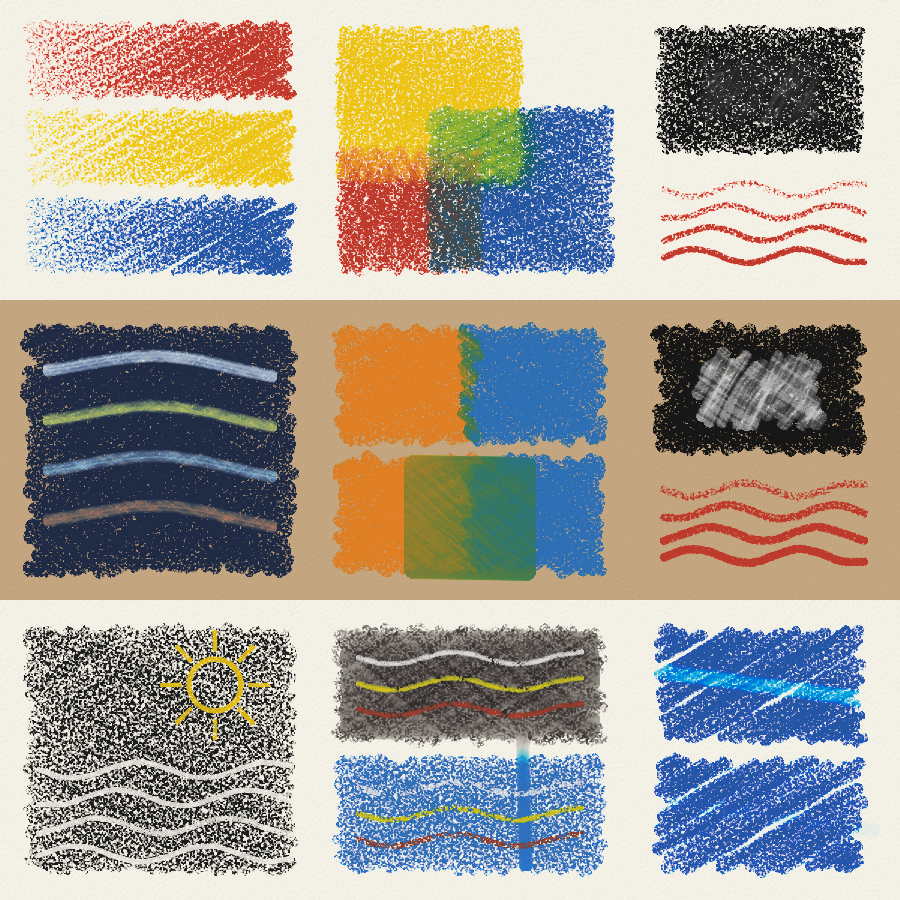
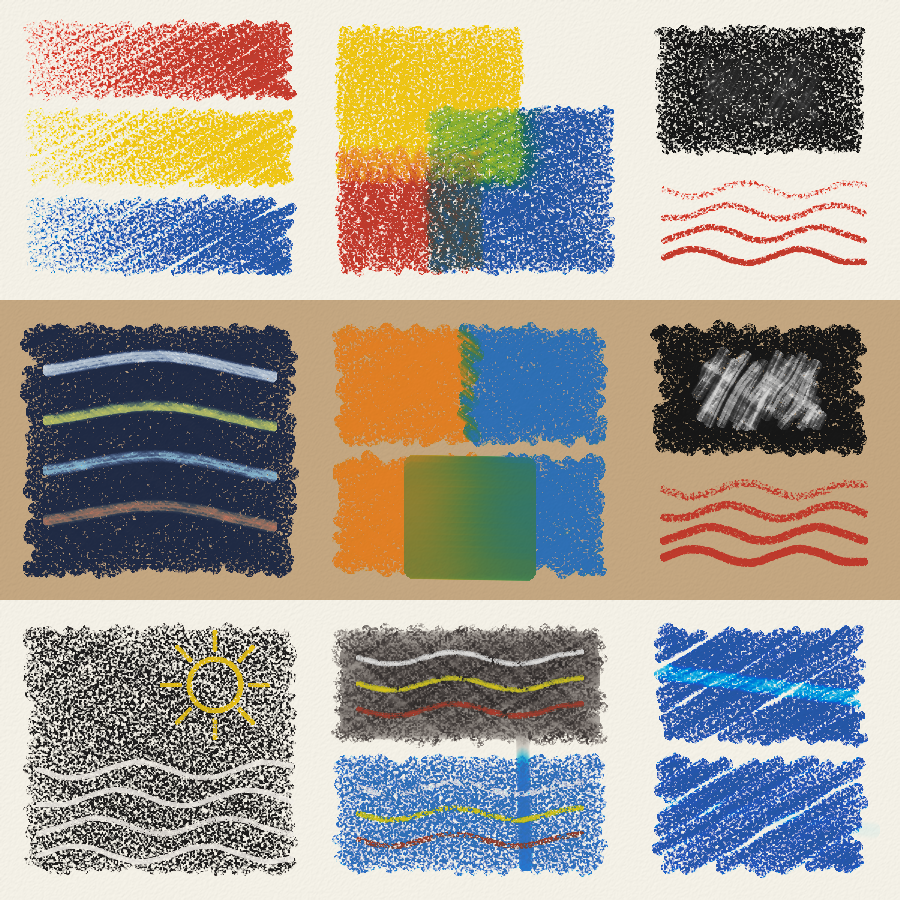
An oil pastel leaves paste and no film, and a finger blends it again (fusain-r56)
With a film kept apart from what it lies on, the film an oil pastel laid
on its own paste (two fifths of what met paste) had its own colour and
no finger moved it: a rubbed join of two oil pastels kept the hatching
of every stroke and a sharp seam. What a greasy medium lays on what lies
over the paper is paste, as the rest of it is, as far as it is greasy.

That film had also been a lid on the paste under it. Paste is now
pressed into the tooth only as far as the tooth has room for it
(PASTE_ROOM, a thickness of 0.8 held), and a greasy tip ploughs up 0.09
of what it buries (0.12) of a third more paste. Over three sheets, as on
main: the blue rises by 0.21 of the way across a finger's width either
side of the join (0.21 on main; 0.36 with the film), the spread of L* in
blocks of 5 pixels in the rubbed square is 0.16 (0.18; 0.41), and white
over black is at L* 54.1 (54.5; 53.3).

A medium that is not greasy settles as it did, to the bit (thorough
fingerprint: only the drawings with an oil pastel differ). Fingerprints
recorded again, every example image regenerated.

Claude-Session: https://claude.ai/code/session_01EHReofLW3GpYNZf6Js7Uif

diff --git a/fusain/_engine.py b/fusain/_engine.py
@@ -246,8 +246,22 @@ GREASE = 0.8
 PASTY = 0.5
 #: A greasy tip ploughs into what it is laid over: of the dust and the paste
 #: on top that a pass of paste would bury, this share stays on top and mixes
-#: with it, so a light oil pastel only half covers a dark one.
-PLOUGH = 0.12
+#: with it, so a light oil pastel only half covers a dark one. (0.12 while
+#: two fifths of what an oil pastel laid on its own paste was a film, which
+#: no tip ploughed: all of it is paste, a third more, and three quarters
+#: as much of it comes up for the same covering.)
+PLOUGH = 0.09
+#: What the paper does not hold of a greasy medium, it does not hold for
+#: being pressed either: paste goes into the tooth only as far as the tooth
+#: has room for it, and on what the paper holds already it slides. A tooth
+#: that holds this thickness (on the covered share of the pixel) takes no
+#: more paste under a tip or a tool, and one that holds less, less in
+#: proportion. So a finger smears an oil pastel about, pass after pass,
+#: and what it carries onto bare paper sticks there. (While an oil pastel
+#: left a film on its own paste, that film was a lid on the paste under
+#: it; the thickness is set so that a finger blends a join of two oil
+#: pastels as it did then.)
+PASTE_ROOM = 0.8
 #: Pressed harder than BURNISH_FROM, a tip polishes a waxy layer flat
 #: (``polish``, the wax's own), and a pressed tooth is level, so the white
 #: specks close up. It sets in by degrees: the wax (and, under a dry tip,
@@ -678,10 +692,21 @@ def dry_film(film, wax):
 
 
 @_inlined
+def pasty_share(bonded, layer, iy, ix, which):
+    """The share of a layer at a pixel (``which``: 0 underneath, 1 on top)
+    that is paste."""
+    there, paste = layer[iy, ix, IV], bonded[iy, ix, which, PASTE]
+    if there <= 0.0:
+        return 0.0
+    return min(paste / there, 1.0)
+
+
+@_inlined
 def press_dust(held, under, loose, bonded, cover, iy, ix, share):
     """Press the ``share`` of the dust and of the paste at a pixel into the
     paper: not what is set or bound (``bonded``), and less of the rest the
-    more of those and of film lies between it and the paper."""
+    more of those and of film lies between it and the paper; and of paste,
+    only what the tooth has room for (:data:`PASTE_ROOM`)."""
     dusty = loose[iy, ix, IV] > 0.0 or under[iy, ix, IV] > 0.0
     # (else no dust here, most pixels of a first pass; or a tool that
     # presses nothing in, an eraser)
@@ -692,6 +717,14 @@ def press_dust(held, under, loose, bonded, cover, iy, ix, share):
             share *= 1.0 - min(barrier / max(cover[iy, ix], 1e-6) / COVERS, 1.0)
             from_loose = share * free_share(bonded, loose, iy, ix, 1)
             from_under = share * free_share(bonded, under, iy, ix, 0)
+        # (paste goes into the tooth only as far as the tooth has room for
+        # it: on what the paper holds already it slides)
+        room = 1.0
+        if bonded[iy, ix, 1, PASTE] + bonded[iy, ix, 0, PASTE] > 0.0:
+            full = held[iy, ix, IV] / max(cover[iy, ix], 1e-6) / PASTE_ROOM
+            room = 1.0 - min(full, 1.0)
+            from_loose *= 1.0 - (1.0 - room) * pasty_share(bonded, loose, iy, ix, 1)
+            from_under *= 1.0 - (1.0 - room) * pasty_share(bonded, under, iy, ix, 0)
         for part in range(LOOSE):
             moved = loose[iy, ix, part] * from_loose
             loose[iy, ix, part] -= moved
@@ -700,9 +733,9 @@ def press_dust(held, under, loose, bonded, cover, iy, ix, share):
             under[iy, ix, part] -= moved
             held[iy, ix, part] += moved
         if bonded[iy, ix, 1, PASTE] > 0.0:
-            bonded[iy, ix, 1, PASTE] -= bonded[iy, ix, 1, PASTE] * share
+            bonded[iy, ix, 1, PASTE] -= bonded[iy, ix, 1, PASTE] * share * room
         if bonded[iy, ix, 0, PASTE] > 0.0:
-            bonded[iy, ix, 0, PASTE] -= bonded[iy, ix, 0, PASTE] * share
+            bonded[iy, ix, 0, PASTE] -= bonded[iy, ix, 0, PASTE] * share * room
 
 
 @_inlined
@@ -947,7 +980,10 @@ def settle_pixel(fresh, cover, bonded, under, loose, pasty, binds, iy, ix):
     film of a dry medium). The film that comes joins the film that lay on
     top; and the film on top goes under only as far as the dust and the
     paste of the pass come to lie on it, its crumbs over its own film as
-    over what the paper holds of it. Returns the volumes of dust and paste,
+    over what the paper holds of it. What a greasy medium lays on what lies
+    over the paper is paste, as the rest of it is, as far as it is greasy
+    (``pasty``): an oil pastel leaves no film, which no finger could move,
+    but paste on paste. Returns the volumes of dust and paste,
     and of film, to add to the layer on top and to the films, and the share
     of the film on top that goes under; ``fresh`` is left empty."""
     rest, film = fresh[iy, ix, 0], fresh[iy, ix, 1]
@@ -955,6 +991,14 @@ def settle_pixel(fresh, cover, bonded, under, loose, pasty, binds, iy, ix):
     fresh[iy, ix, 1] = 0.0
     thin = 1.0 / (cover[iy, ix] * COVERS)
     buried = BURY * min((rest + film) * thin, 1.0)
+    # (of its film, the share that is paste; numbers of the sheet's own
+    # precision, as they were, so that a medium that is not greasy settles
+    # as it did, to the bit)
+    kept = np.float32(film * (1.0 - pasty))
+    turned = film - kept
+    film = kept
+    paste = rest * pasty + turned
+    rest = rest + turned
     covers = BURY * min(rest * thin, 1.0)  # (what covers the film on top)
     # (a greasy tip ploughs up part of what can be moved, which stays on top)
     free = free_share(bonded, loose, iy, ix, 1)
@@ -971,7 +1015,6 @@ def settle_pixel(fresh, cover, bonded, under, loose, pasty, binds, iy, ix):
             moved = (bonded[iy, ix, 1, kind] + film) * covers
         bonded[iy, ix, 1, kind] -= moved
         bonded[iy, ix, 0, kind] += moved
-    paste = rest * pasty
     binder = film + paste
     # (the loose dust of each layer, before any of it is bonded)
     below = loose_in(bonded, under, iy, ix, 0)

diff --git a/tests/test_layers.py b/tests/test_layers.py
@@ -181,7 +181,10 @@ def test_dust_laid_over_a_film_buries_it_with_what_it_set():
     assert _sum(sheet.film[..., 1]) > 0.8 * film
     sheet.shade(BOX, pastels.oil(RED), 0.9, WIDTH, angle=80)
     assert _sum(sheet.film[..., 0]) > 0.7 * film
-    assert _sum(sheet.fixed) >= fixed * (1 - 1e-5)
+    # (an oil pastel pressed firmly drags part of the film off, and what
+    # that held is loose again, or paste under the pastel: 0.83 of it is
+    # still held)
+    assert _sum(sheet.fixed) > 0.7 * fixed
     assert _bonded_within_bounds(sheet)
 
 
@@ -891,14 +894,14 @@ def test_a_finger_stirs_up_a_pencil_film_that_later_pastel_buried(seed):
 
 
 @pytest.mark.parametrize("seed", SEEDS)
-def test_a_light_oil_pastel_still_covers_a_dark_one(seed):
-    # the film on the dust underneath and the film on top are each a
-    # mixture of its own: the film of a white oil pastel laid over a black
-    # one's lies on the white paste and on top, and the black one's film
-    # goes under the white paste with the black. (Were all the films of a
-    # pixel one mixture, the black would come up into the white on top:
-    # the patch came out 24 L* darker.) L* 53 to 59 over black at 10 to
-    # 12; it was 56 to 62 with each film in the mixture of its layer
+def test_an_oil_pastel_leaves_paste_and_no_film_and_a_light_one_covers_a_dark(seed):
+    # what an oil pastel lays on what lies over the paper is paste, as the
+    # rest of it is: no film. (As a film, two fifths of what met paste lay
+    # on it its own colour, and no finger moved it: the strokes showed
+    # through a rubbed join; and with one mixture for all the films of a
+    # pixel the black came up into the white, 24 L* darker.) L* 51 to 57
+    # over black at 9 to 11, as it was (52 to 58) before films were kept
+    # apart
     sheet = _sheet(seed)
     for angle in (25, -40):
         sheet.shade(BOX, pastels.oil(DARK), 0.7, 14, angle)
@@ -909,8 +912,37 @@ def test_a_light_oil_pastel_still_covers_a_dark_one(seed):
 
     black = lightness()
     sheet.shade((50, 45, 150, 105), pastels.oil(WHITE), 0.8, 14, 60)
-    assert black < 15.0 and lightness() > 48.0
-    assert _sum(sheet.film[..., 0]) > 0.0 and _sum(sheet.film[..., 1]) > 0.0
-    films = sheet.films[where]
-    assert _absorbed(films[..., 1, :]) < 0.5 * _absorbed(films[..., 0, :])
+    assert black < 15.0 and lightness() > 50.0
+    assert not sheet.film.any() and not sheet.films.any()
+    assert _sum(sheet.paste) == pytest.approx(_dust(sheet), rel=1e-4)
+    # a crayon, which is not greasy, still lays a film over the paste
+    sheet.shade(BOX, crayons.wax(YELLOW), 0.6, WIDTH, angle=10)
+    assert _sum(sheet.film) > 30.0
     assert _nothing_negative(sheet) and _bonded_within_bounds(sheet)
+
+
+@pytest.mark.parametrize("seed", SEEDS)
+def test_a_finger_rubs_the_strokes_out_of_an_oil_pastel(seed):
+    # two layers of an oil pastel, rubbed with a finger: the hatching goes
+    # (the spread of 5-pixel blocks of the tone, across the passes, falls
+    # to under a hundredth of what it was; while an oil pastel left a film
+    # on its own paste, the film stayed, and the strokes with it)
+    sheet = _sheet(seed)
+    for angle in (25, -40):
+        sheet.shade(BOX, pastels.oil(BLUE), 0.7, 14, angle)
+    where = (slice(50, 100), slice(60, 140))
+
+    def texture() -> float:
+        spectrum = sheet.reflectance()[where].astype(np.float64)
+        tone = sp.reflectance_to_linear_rgb(spectrum) @ sp.LUMINANCE
+        blocks = tone.reshape(10, 5, 16, 5).mean(axis=(1, 3))
+        return float((blocks - blocks.mean(axis=0)).std())
+
+    before = texture()
+    finger = Smudger(tools.FINGER)
+    for k in range(12):
+        y = 44 + 6 * k
+        ends = [(45, y), (155, y + 2)]
+        sheet.smudge(ends, finger, 0.8)
+        sheet.smudge(ends[::-1], finger, 0.8)
+    assert texture() < 0.1 * before

diff --git a/tests/test_crayons.py b/tests/test_crayons.py
@@ -144,14 +144,13 @@ def test_a_finger_smears_oil_pastel_less_than_soft_pastel_more_than_crayon():
 def test_the_paper_holds_under_half_of_an_oil_pastel_at_once():
     sheet = _sheet()
     laid = sheet.shade(BOX, pastels.oil(RED), 0.5, WIDTH)
-    # the rest is paste (and what a stroke lays over the paste of the one
-    # before is a film on it)
+    # the rest is paste: also what a stroke lays over the paste of the one
+    # before, which is no film (a finger could not move one), but paste on
+    # paste (0.68 of it; 0.59 while two fifths of what met paste was a film)
     paste = float(sheet.paste.sum(dtype=np.float64))
-    assert 0.4 * laid < paste < 0.65 * laid
-    film = float(sheet.film.sum(dtype=np.float64))
-    assert film > 0.0
+    assert 0.4 * laid < paste < 0.75 * laid
+    assert not sheet.film.any() and not sheet.films.any()
     assert _dust(sheet) == pytest.approx(paste, rel=1e-4)
-    assert float(sheet.films[..., IV].sum(dtype=np.float64)) == pytest.approx(film)
     # one stroke on bare paper: no film
     sheet = _sheet()
     laid = sheet.stroke([(30, 75), (170, 75)], pastels.oil(RED), 0.5, WIDTH)

diff --git a/CHANGELOG.md b/CHANGELOG.md
@@ -90,14 +90,25 @@ and the project adheres to [Semantic Versioning](https://semver.org/).
     at 0.6), a little more than its share of the graphite (0.82), since
     part of the film lies over its crumbs; six layers of a 6B shine 0.99
     where on paper they shine 0.82 (0.78).
-  - A finger blends a join of two oil pastels over a narrower passage,
-    1.3 widths of the finger, not 2.7, in what is seen on top: the films
-    of an oil pastel are their own and stay, where they were mixed with
-    the paste the finger moves.
-  - In the example images: `crayons.png` moves where a finger rubs the
-    join of two oil pastels and where crayon lies over charcoal and
-    pastel (blocks of 32 pixels by up to 9 in colour, a tenth of them by
-    more than 1); `macaw`, `colour`, `deco`, `broadway`, `shine` and
+  - An oil pastel leaves no film: what it lays on what lies over the
+    paper is paste, as the rest of it is, as far as the medium is greasy
+    (a film of its own colour that no finger moves would keep the
+    hatching of every stroke under a rubbed join). Paste is pressed into
+    the tooth only as far as the tooth has room for it
+    (`_engine.PASTE_ROOM`, a thickness of 0.8 held: on what the paper
+    holds already it slides), which the film of an oil pastel, a lid on
+    the paste under it, used to see to; and a greasy tip ploughs up 0.09
+    of what it buries, not 0.12, of a third more paste (`PLOUGH`). With
+    the two, in `crayons.png`, over three sheets: a finger rubbed across a
+    join of two oil pastels leaves the blue rising by 0.21 of the way from
+    one colour to the other over a finger's width either side of the
+    join, as it did (0.21), and takes the hatching out as it did (the
+    spread of L* in blocks of 5 pixels 0.16, from 0.41; it was 0.18); a
+    white oil pastel over a black one is at L* 54.1 (54.5).
+  - In the example images: `crayons.png` moves in its row of oil
+    pastels by little (a few blocks of 32 pixels by up to 3 in colour,
+    at the rubbed join) and where a crayon lies over charcoal and pastel
+    by up to 9 (a twentieth of its blocks by more than 1); `macaw`, `colour`, `deco`, `broadway`, `shine` and
     `lake` by less than 0.5 anywhere; the rest are the same to the bit,
     as is every drawing without a film (graphite alone, to the bit over
     41 sheets of the thorough fingerprint).

diff --git a/docs/design.md b/docs/design.md
@@ -228,7 +228,11 @@ each is not. The rule is that a medium lies on what it meets:
 - **Paste.** What the paper does not hold of a greasy medium (a waxy one
   that is soft: an oil pastel) is not dust but paste. It lies in the layers
   as dust does, so a light oil pastel shows over a dark one, and a tip
-  presses it in as it does dust; but it sticks. A tool moves it only as far
+  presses it in as it does dust, as far as the tooth has room for it
+  (`PASTE_ROOM`: on what the paper holds already it slides); but it
+  sticks. All that an oil pastel does not lay in the tooth is paste: it
+  leaves no film on its own paste or on dust, which a finger could not
+  move. A tool moves it only as far
   as it smears: a finger, a stump or a chamois drags it about and blends it,
   and it is paste again where they lay it; an eraser, which lifts and does
   not smear, takes it only as it takes what the paper holds. Dust under a
